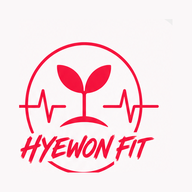
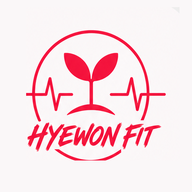
pwa-0.52.2 로고를 정사각형 정중앙으로 정렬
- 테마 6종 mask 아이콘(512·192)의 로고 아트를 이미지 한가운데로 이동
  기존 최대 x20 · y30 픽셀 치우침
- 테마1 좌상단 얼룩 제거 (얼룩 때문에 중심 계산이 틀리고 있었음)

Changed region(s): [[0.0938, 0.1562, 0.875, 0.9062]]

diff --git a/index.html b/index.html
@@ -1,5 +1,6 @@
-<!-- 코드명: 혜원핏 PWA 학생앱 | index.html | @version 0.52.1 -->
-<!-- 수정요약: [0.52.1] 로고 모서리 깨짐·흰 테두리 수정 — 로고 소스를 theme{n}.png(테두리·둥근모서리가 그림에 박힌 파일)에서 icon{n}-mask-512.png(꽉 찬 정사각형)로 바꾸고 CSS 둥근모서리(22%)로 깔끔하게. 로그인·홈·테마 선택 모두 적용. -->
+<!-- 코드명: 혜원핏 PWA 학생앱 | index.html | @version 0.52.2 -->
+<!-- 수정요약: [0.52.2] 로고 아트를 정사각형 정중앙으로 정렬(테마 6종 mask 아이콘 512·192). 테마1 좌상단 얼룩 제거. -->
+<!--   [0.52.1] 로고 모서리 깨짐·흰 테두리 수정 — 로고 소스를 theme{n}.png(테두리·둥근모서리가 그림에 박힌 파일)에서 icon{n}-mask-512.png(꽉 찬 정사각형)로 바꾸고 CSS 둥근모서리(22%)로 깔끔하게. 로그인·홈·테마 선택 모두 적용. -->
 <!--   [0.52.0] 선생님 코멘트를 «캐릭터가 말풍선으로 말하는» 만화 형태로 — 관리자에서 말하는 캐릭터를 고르면(토글) 학생 앱에 캐릭터 그림 + 꼬리 달린 말풍선으로 보인다. -->
 <!--   [0.51.1] 로그인 전·로그아웃 후에 공지 팝업이 로그인 화면 위에 남던 것 수정 — showPop/popConfirm 에 로그인 확인을 넣고, 로그인 화면 진입·로그아웃 때 popClose() 로 강제 종료. -->
 <!--   [0.51.0] «선생님» → «김진호 선생님». 관리자와 버전 번호 통일(0.51.0). -->

diff --git a/sw.js b/sw.js
@@ -1,5 +1,5 @@
 /* 그로핏 PWA 서비스워커 | 버전 올리면 캐시 갱신·자동 새로고침 */
-var CACHE = 'grofit-v0.52.1';
+var CACHE = 'grofit-v0.52.2';
 var ASSETS = ['./', './index.html',
   './tab-home.png', './tab-cert.png', './tab-fit.png', './tab-reflect.png', './tab-score.png', './tab-notice.png', './ic-cardio.png', './ic-strength.png',
   './st-verygood.png','./st-good.png','./st-nice.png','./st-peace.png','./st-regret.png','./st-frustration.png',
